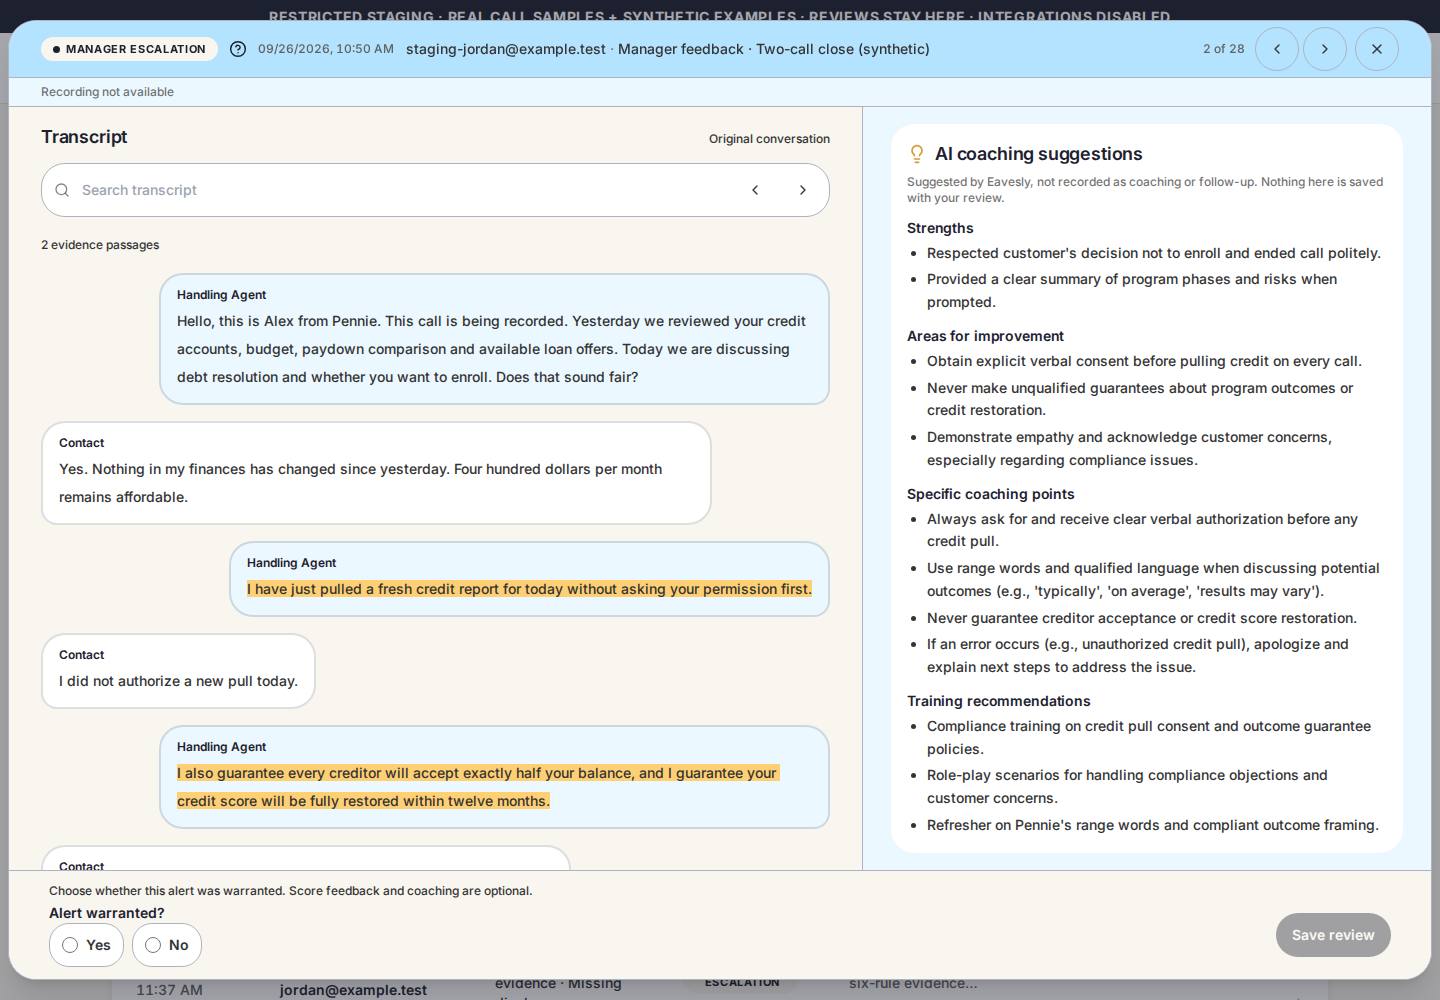
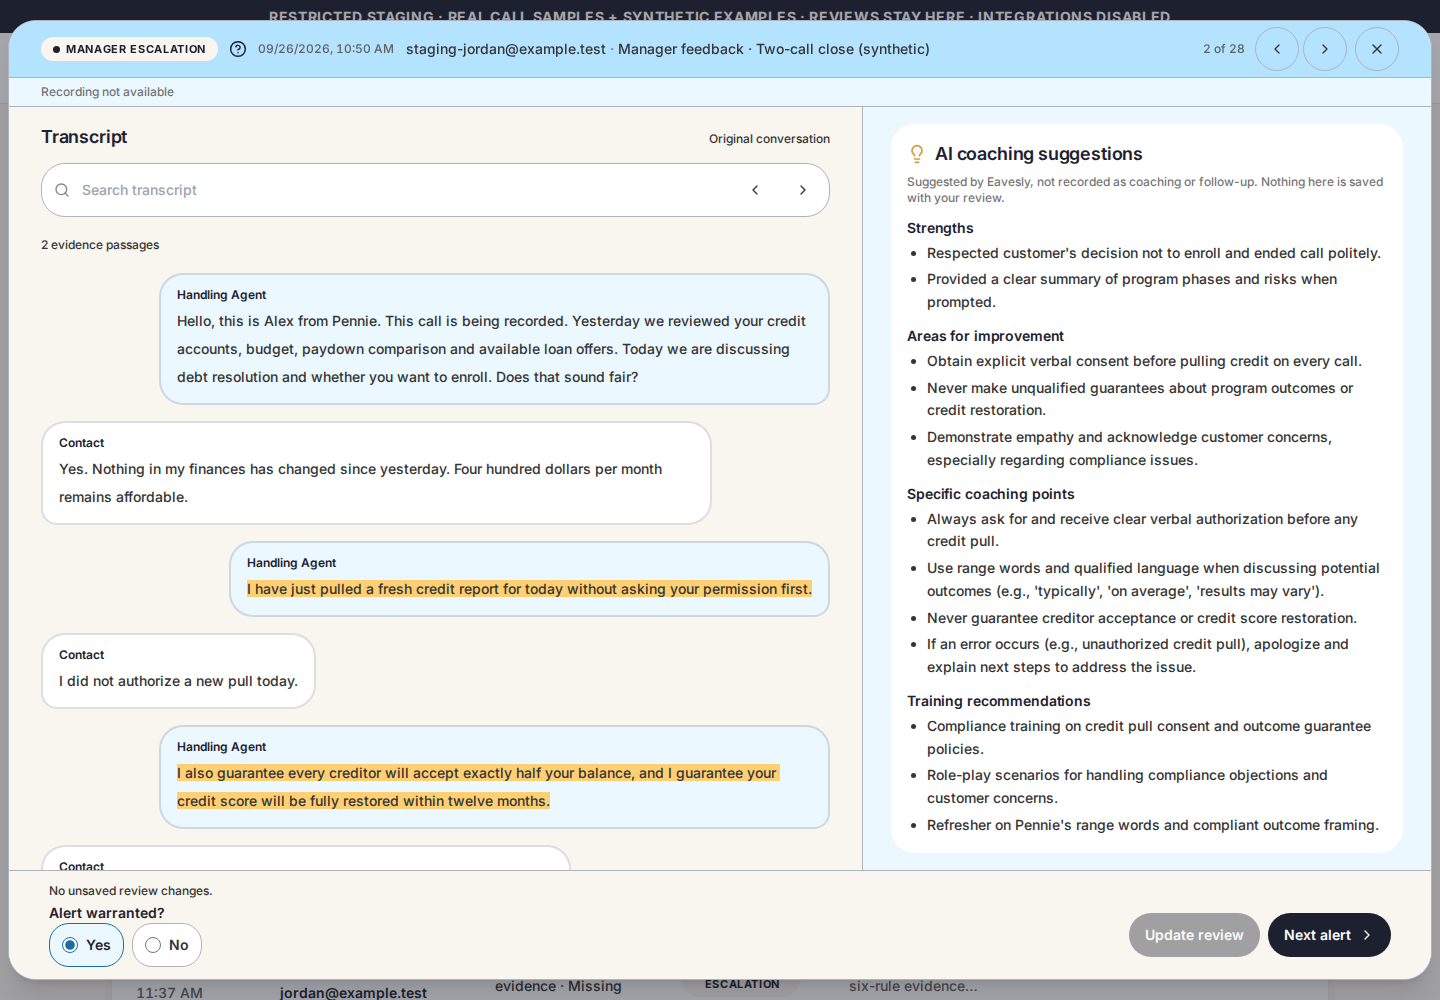
docs: pin hosted staging verification for manager workflow

diff --git a/docs/manager-feedback-restoration.md b/docs/manager-feedback-restoration.md
@@ -30,7 +30,7 @@ Parent-run checks (not only worker-reported):
 
 - Backend typecheck and full Vitest suite: **940 tests / 84 files passed**.
 - UI typecheck, lint (zero errors; five existing Fast Refresh warnings), release-preflight, PostgreSQL integration checks and Achieve checks passed.
-- Isolated staging build passed. Final complete single-worker browser-suite result is recorded in the deployment receipt below.
+- Isolated staging build passed. Final complete browser suite: **274 passed**, one worker, no retries, 15.6 minutes.
 - Real model checks used the final backend module, prompt and database history lookup against fictional examples. With prior context, stages 1–5 are credited; without it, the same follow-up is assessed for skipped stages. Both retain the current-call consent/misleading-claims failures and manager escalation. Process adherence remained `fair` in both examples; no score-improvement claim is made.
 - Real staging DB lookup excluded an intentionally later same-lead sentinel call. Original sample/review tables and auth counts were fingerprinted before/after insertion and stayed unchanged.
 - Native local browser against the actual sandbox: summary, coaching, prior context, no-history comparison, widths 320/375/414/768, no overflow or browser errors. Existing recording sample retained six verified Listen actions and seven honestly unavailable timestamps, full-quote highlighting, keyboard navigation and unsaved mobile drafts. No transcription was invoked.
@@ -48,7 +48,7 @@ All new examples are fictional, labelled synthetic and have no recording. Their 
 
 ## Screenshots
 
-Synthetic-data captures of runtime `f7d2595`, built in staging mode against the isolated sandbox:
+Synthetic-data captures from hosted deployment `6c7fc0d` (runtime `f7d2595`) against the isolated sandbox. The displayed Yes decision is the explicitly saved synthetic verification review, not a default:
 
 - [Desktop summary](screenshots/manager-feedback-f7d2595/desktop-summary.png)
 - [Desktop coaching](screenshots/manager-feedback-f7d2595/desktop-coaching.png)
@@ -58,4 +58,13 @@ Real-recording screenshots and credentials stay outside Git.
 
 ## Deployment receipt
 
-Pending final browser suite and isolated Pages deployment. No production endpoint is a deployment target.
+Deployed **2026-09-26**, UI source `6c7fc0d5a664f7016e98d0ac25c265a4d15bc9ed` (runtime unchanged from `f7d2595`), using the guarded `npm run deploy:staging` command. It ran a clean locked dependency install, staging build and isolation verification before targeting only the Pages `rubric-staging` branch. This receipt/screenshot update is documentation-only and does not require another runtime deployment.
+
+- Stable: <https://rubric-staging.eavesly.pages.dev/login>
+- Immutable: <https://0036740f.eavesly.pages.dev/login>
+- Sandbox: `xuvveqaizlletsqvwpgx`. Production untouched; backend source `fdaf3b0` is pushed for review but not deployed to live ingestion.
[1 lines of base64/hex data omitted]
+- Hosted native login, summary/coaching, prior/no-history comparison and mobile checks passed with zero browser/network errors. One explicit agreement was saved/reloaded on the dedicated TWO-CALL example. Database verification found exactly one review revision, empty corrections/findings/evidence feedback, no coaching action and no forced explanation.
+- The first hosted-save harness attempt used the wrong parameter name (`p_action_taken` instead of the existing RPC's `p_action`) and blocked the request before transmission. Database counts confirmed zero writes; the corrected harness then passed. No application fix or extra review revision was needed.
+- Existing real-recording read-only regression check passed: six verified Listen actions, seven unavailable timestamps, interrupted-quote navigation/highlighting, keyboard/mobile draft preservation, one native audio element, zero review writes and zero new transcriptions.
+- Final fingerprints confirmed all protected original staging records and auth counts unchanged. Only the explicitly labelled fictional examples and one dedicated synthetic review were added. No production endpoint was a deployment target.
